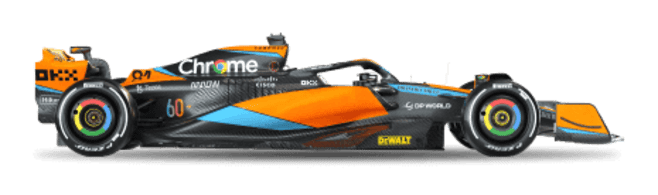
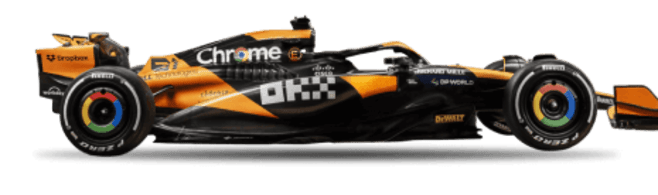
v3.2.0 -> updated all the assets and teams up to the 2024 season

diff --git a/src/app/schedule/[raceRound]/page.tsx b/src/app/schedule/[raceRound]/page.tsx
@@ -10,9 +10,10 @@ import Image from 'next/image'
 import ResultsTable from './components/ResultsTable'
 import dynamic from 'next/dynamic'
 import Problems from '@/components/Problems'
+import { RiAlertLine } from 'react-icons/ri'
 
 const RaceInfo = async ({ params }: { params: { raceRound: string } }) => {
-	return <Problems />
+	// return <Problems />
 
 	const Countdown = dynamic(() => import('@/components/Countdown'), {
 		ssr: false
@@ -29,11 +30,11 @@ const RaceInfo = async ({ params }: { params: { raceRound: string } }) => {
 	const hasDatePassedNow =
 		new Date(event.Session5DateUtc).getTime() < new Date().getTime()
 
-	const podium = race.filter(result => {
+	const podium = race?.filter(result => {
 		return result.Position <= 3
 	})
 
-	const sortedPodium = podium.sort((a, b) => {
+	const sortedPodium = podium?.sort((a, b) => {
 		if (a.Position === 2) return -1
 		if (b.Position === 1) return 1
 		return 0
@@ -94,7 +95,7 @@ const RaceInfo = async ({ params }: { params: { raceRound: string } }) => {
 					</>
 				) : (
 					<>
-						<Title text='Race results' small />
+						{/* <Title text='Race results' small />
 
 						<div className='grid grid-cols-1 lg:grid-cols-3 gap-5 lg:gap-10'>
 							{sortedPodium.map(driver => (
@@ -111,6 +112,14 @@ const RaceInfo = async ({ params }: { params: { raceRound: string } }) => {
 
 						<div className='flex items-center justify-center flex-col w-full pt-40'>
 							<ResultsTable race={race} />
+						</div> */}
+
+						<div className='text-amber-400 bg-amber-200 border-2 border-amber-400 py-5 rounded-lg mx-10 px-10 flex items-center justify-center flex-col lg:flex-row'>
+							<RiAlertLine size={133} />
+							<Title
+								text='We are currently experiencing some problems to fetch the results of the race. Please wait patiently until the issue is solved.'
+								small
+							/>
 						</div>
 					</>
 				)}

diff --git a/src/app/(site)/components/CalendarRace.tsx b/src/app/(site)/components/CalendarRace.tsx
@@ -34,12 +34,16 @@ const CalendarRace: React.FC<CalendarRaceProps> = ({
 			</p>
 
 			<div className='flex items-center justify-end'>
-				<Link
-					href={`/schedule/${round}`}
-					className='flex w-fit items-center justify-center space-x-2 rounded-lg bg-amber-400 px-5 py-3 text-lg text-black shadow-lg transition-all duration-300 hover:scale-105 hover:bg-amber-500'
-				>
-					See more info
-				</Link>
+				{round === 0 ? (
+					<></>
+				) : (
+					<Link
+						href={`/schedule/${round}`}
+						className='flex w-fit items-center justify-center space-x-2 rounded-lg bg-amber-400 px-5 py-3 text-lg text-black shadow-lg transition-all duration-300 hover:scale-105 hover:bg-amber-500'
+					>
+						See more info
+					</Link>
+				)}
 			</div>
 		</div>
 	)

diff --git a/src/app/(site)/components/Tabs/Constructors.tsx b/src/app/(site)/components/Tabs/Constructors.tsx
@@ -19,9 +19,9 @@ const Drivers = () => {
 		<>
 			<div className='w-full flex flex-col items-center justify-center'>
 				{loading ? (
-					<div className='py-10'>
+					<div className='py-10 flex flex-col items-center justify-between gap-10'>
 						<GridLoader size={20} />
-						<p>
+						<p className='text-xl'>
 							The data fetching may take a while. Please wait a few seconds or
 							refresh the page.
 						</p>

diff --git a/src/app/(site)/components/Tabs/Drivers.tsx b/src/app/(site)/components/Tabs/Drivers.tsx
@@ -19,7 +19,7 @@ const Drivers = () => {
 		<>
 			<div className='w-full flex flex-col items-center justify-center'>
 				{loading ? (
-					<div className='py-10 flex flex-col items-center justify-between'>
+					<div className='py-10 flex flex-col items-center justify-between gap-10'>
 						<GridLoader size={20} />
 						<p className='text-xl'>
 							The data fetching may take a while. Please wait a few seconds or

diff --git a/tailwind.config.ts b/tailwind.config.ts
@@ -17,12 +17,12 @@ const config: Config = {
 				mercedes: '#00D2BE',
 				ferrari: '#DC0000',
 				red_bull: '#0600EF',
-				alpine: '#0090FF',
+				alpine: '#ff87bc',
 				haas: '#FFFFFF',
 				aston_martin: '#006F62',
-				alphatauri: '#6692ff',
+				rb: '#6692ff',
 				mclaren: '#FF8700',
-				alfa: '#52e252',
+				sauber: '#52e252',
 				williams: '#005AFF',
 				silver: '#c0c0c0',
 				bronze: '#CD7F32',

diff --git a/src/data/getConstructorsStandings.ts b/src/data/getConstructorsStandings.ts
@@ -16,7 +16,7 @@ export const getConstructorsStandings = (setData: any, setLoading: any) => {
 
 export const getConstructorsStandingsSSR = async () => {
 	const url = `${SERVER_LINK}/standings/constructors`
-	const data = await fetch(url)
+	const data = await fetch(url, { next: { revalidate: SECONDS_ISR } })
 	const fetchedData = (await data.json()) as ConstructorStanding[]
 
 	return fetchedData

diff --git a/src/data/getDrivers.ts b/src/data/getDrivers.ts
@@ -13,7 +13,7 @@ export const getDriverStandings = (setData: any, setLoading: any) => {
 
 export const getDriverStandingsSSR = async () => {
 	const url = `${SERVER_LINK}/standings/drivers`
-	const data = await fetch(url)
+	const data = await fetch(url, { next: { revalidate: SECONDS_ISR } })
 	const fetchedData = (await data.json()) as DriversStanding[]
 
 	return fetchedData

diff --git a/src/app/drivers/page.tsx b/src/app/drivers/page.tsx
@@ -18,6 +18,7 @@ const Drivers = async () => {
 			<div className='w-full py-5 px-10 grid place-content-center gap-8 grid-cols-1 lg:grid-cols-2'>
 				{constructors.map(constructor => (
 					<ConstructorList
+						key={constructor.Constructor.constructorId}
 						constructorId={constructor.Constructor.constructorId}
 						name={constructor.Constructor.name}
 					/>

diff --git a/src/data/constructors.ts b/src/data/constructors.ts
@@ -1,12 +1,12 @@
 export const constructors = {
 	williams: 'text-williams',
-	alfa: 'text-alfa',
+	sauber: 'text-sauber',
 	mercedes: 'text-mercedes',
 	haas: 'text-haas',
 	mclaren: 'text-mclaren',
 	aston_martin: 'text-aston_martin',
 	red_bull: 'text-red_bull',
-	alphatauri: 'text-alphatauri',
+	rb: 'text-rb',
 	ferrari: 'text-ferrari',
 	alpine: 'text-alpine'
 }

diff --git a/src/app/nextrace/page.tsx b/src/app/nextrace/page.tsx
@@ -32,7 +32,6 @@ const NextRace = async () => {
 		new Date(data.Session1DateUtc).getHours ===
 			new Date(data.Session4DateUtc).getHours
 
-	console.log(new Date(data.Session5DateUtc).getFullYear())
 	return (
 		<div className='pb-10 w-full flex items-center justify-center flex-col'>
 			{/* dark:text-white */}

diff --git a/src/components/Card.tsx b/src/components/Card.tsx
@@ -33,7 +33,7 @@ const Card = ({ sessionTitle, day, time, utcDate }: ComponentProps) => {
 							Date: {day}
 						</p>
 						<p className='mb-3 font-normal text-gray-700 dark:text-gray-400'>
-							Time: {time} (UTC Time)
+							Time: {time}
 						</p>
 					</div>
 				</div>

diff --git a/src/data/consts.ts b/src/data/consts.ts
@@ -1,5 +1,5 @@
 // The version on where the app is
-export const APP_VERSION = '3.1.0'
+export const APP_VERSION = '3.2.0'
 // The seconds it will take to reattempt fetching for Incremental Static Regeneration
 export const SECONDS_ISR = 10
 // The links the header will show
